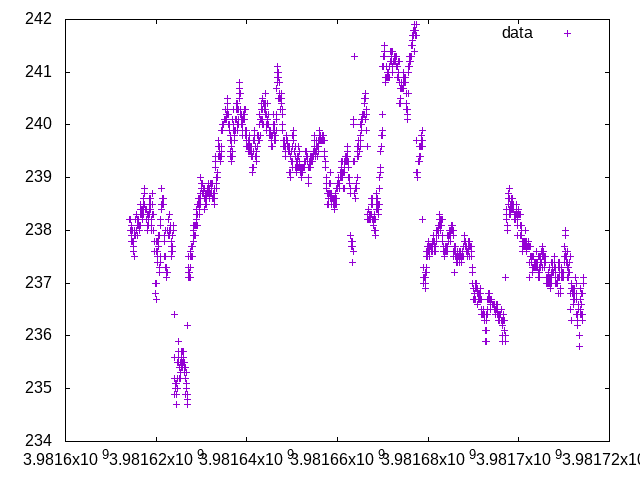
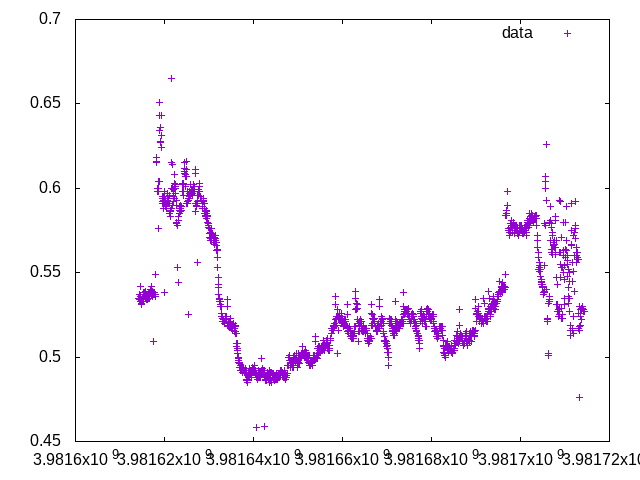
Change volt to current

diff --git a/pkg/plotting/plot.go b/pkg/plotting/plot.go
@@ -36,7 +36,7 @@ func Graph(logger *log.Logger, file string) {
 				logger.Error(err)
 			}
 			dates = append(dates, float64(date.Unix()))
-			value, err := strconv.ParseFloat(strings.Replace(strings.Split(col, ";")[1], "'", "", -1), 64)
+			value, err := strconv.ParseFloat(strings.Replace(strings.Split(col, ";")[2], "'", "", -1), 64)
 			if err != nil {
 				logger.Error(err)
 			}
